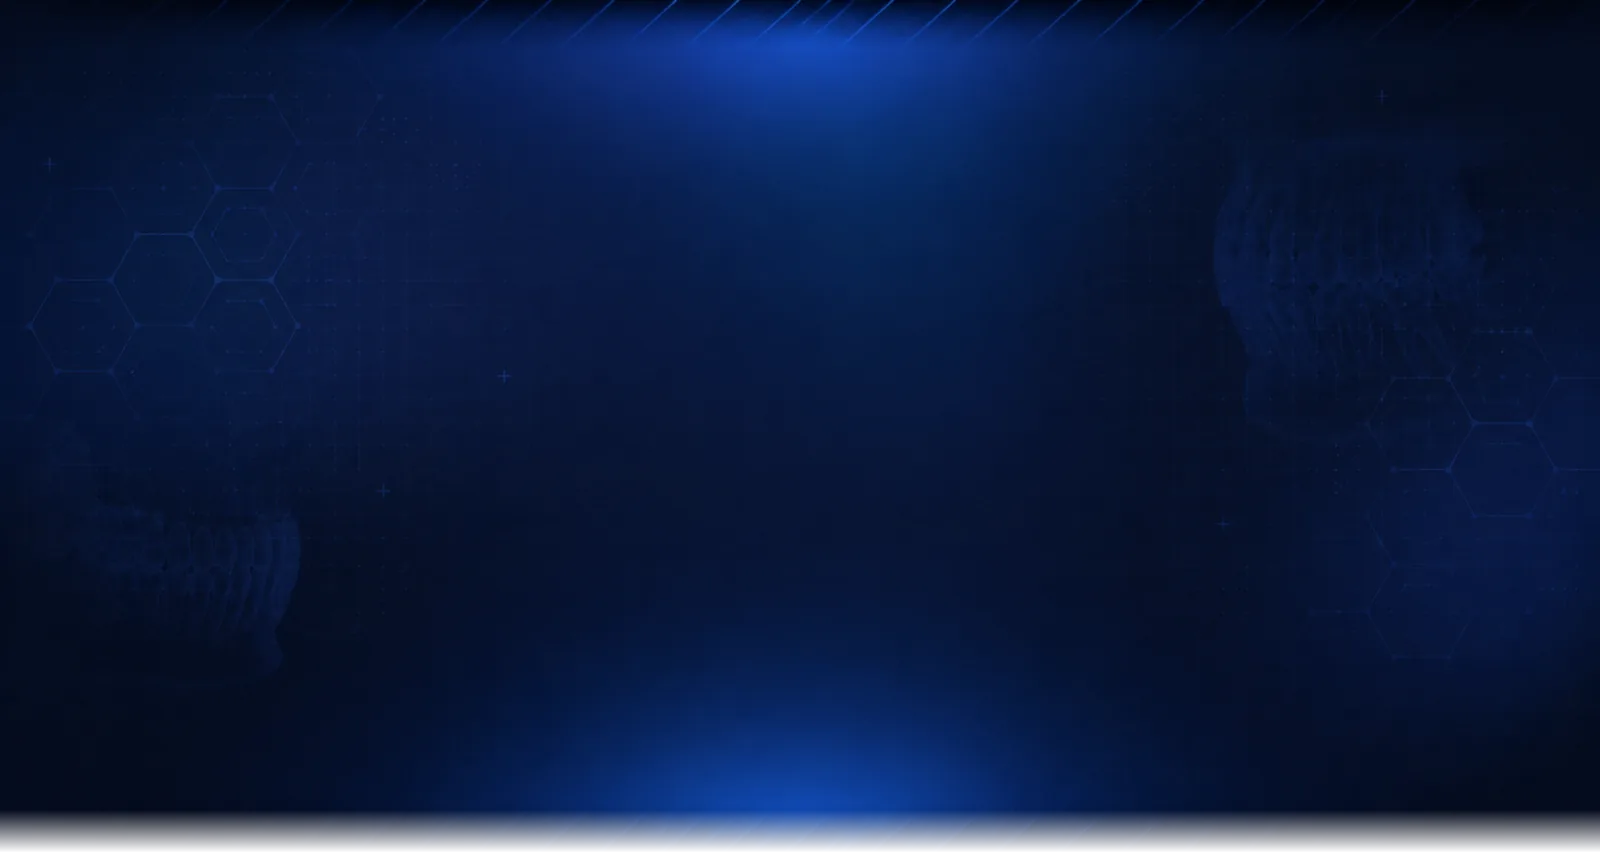
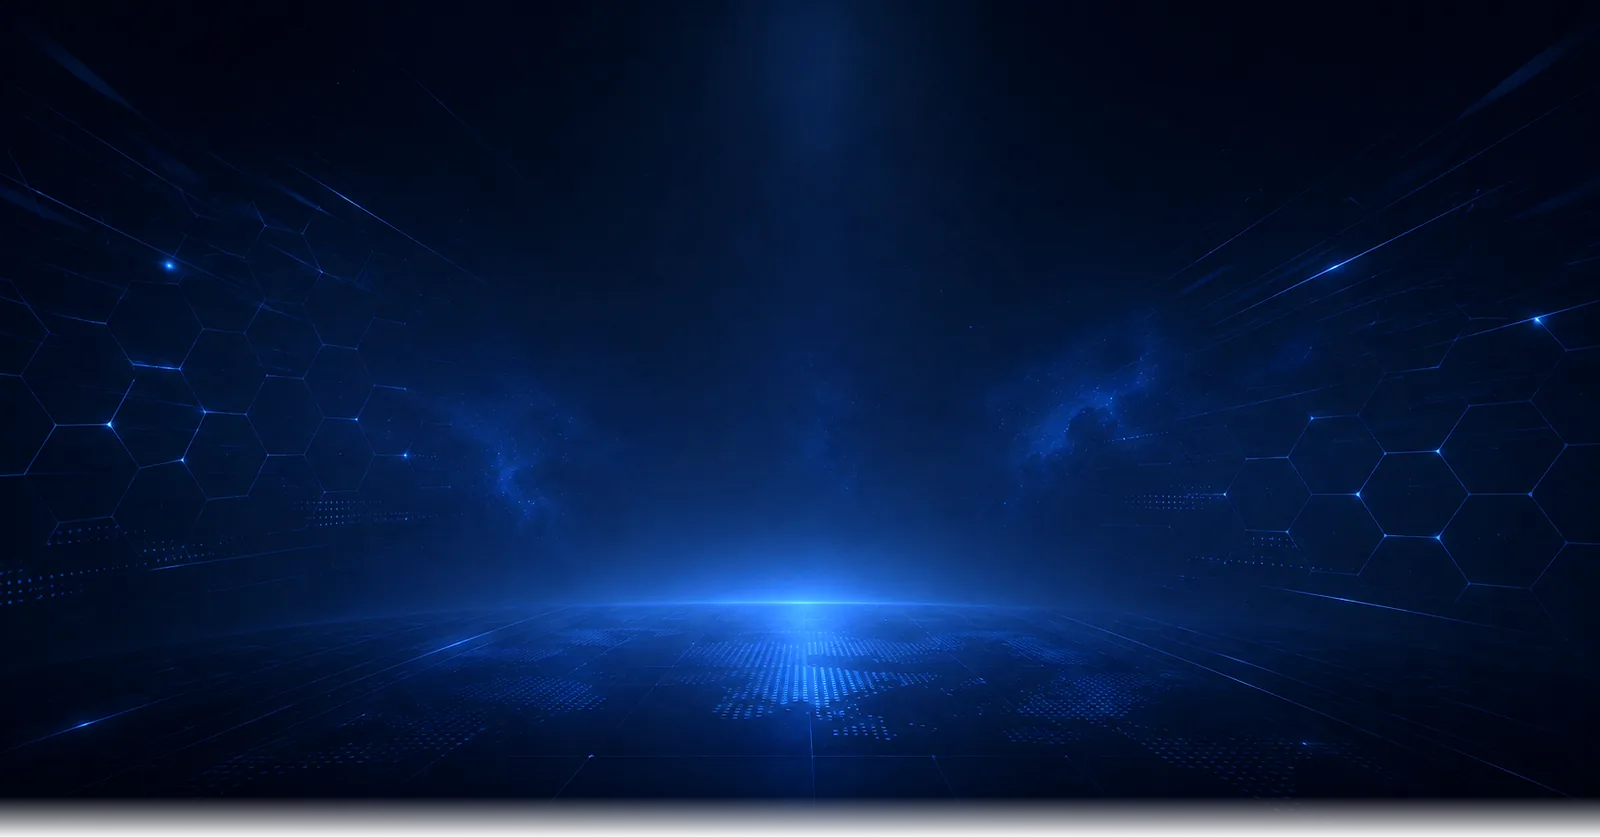
changes

diff --git a/src/i18n/ui.ts b/src/i18n/ui.ts
@@ -315,6 +315,20 @@ const en = {
 		starterSummary: 'Consistent content. Zero effort.',
 		starterBlurb:
 			'Built for practices that want reliable content without adding work to the team.',
+		educationName: 'Patient Education Library',
+		educationSummary: 'Explain it once. Show it forever.',
+		educationBlurb:
+			'The whole library, ready to play chairside, in the consult room and in reception.',
+		educationCta: 'Start free month',
+		educationNote: '30 days free, then billed monthly · Cancel anytime',
+		l1: '300+ patient education videos',
+		l2: 'Covering 40+ treatments',
+		l3: 'New videos added every day',
+		l4: 'Search by treatment or by the question a patient asks',
+		l5: 'Play chairside, in the consult room, or on the waiting room screen',
+		l6: 'Unlimited devices at one location',
+		l7: 'Nothing to film, script or edit',
+		l8: 'Live the day you sign up',
 		starterCta: 'Get Started',
 		starterNote: 'Cancel anytime · Captions, scheduling, and publishing included',
 		premiumName: 'MOLAR Premium',
@@ -1098,6 +1112,20 @@ const de: Dict = {
 		starterSummary: 'Verlässlicher Content. Null Aufwand.',
 		starterBlurb:
 			'Für Praxen, die verlässlich Inhalte wollen, ohne dem Team Arbeit aufzuhalsen.',
+		educationName: 'Patientenaufklärungs-Bibliothek',
+		educationSummary: 'Einmal erklären. Immer zeigen.',
+		educationBlurb:
+			'Die komplette Bibliothek — abspielbar am Behandlungsstuhl, im Beratungszimmer und im Empfang.',
+		educationCta: 'Gratismonat starten',
+		educationNote: '30 Tage gratis, danach monatliche Abrechnung · Jederzeit kündbar',
+		l1: 'Über 300 Patientenaufklärungs-Videos',
+		l2: 'Zu mehr als 40 Behandlungen',
+		l3: 'Täglich kommen neue Videos dazu',
+		l4: 'Suche nach Behandlung oder nach der Frage, die Patienten stellen',
+		l5: 'Abspielbar am Stuhl, im Beratungszimmer oder auf dem Bildschirm im Wartebereich',
+		l6: 'Unbegrenzt viele Geräte an einem Standort',
+		l7: 'Nichts zu drehen, zu texten oder zu schneiden',
+		l8: 'Am Tag der Anmeldung einsatzbereit',
 		starterCta: 'Jetzt starten',
 		starterNote: 'Jederzeit kündbar · Untertitel, Planung und Veröffentlichung inklusive',
 		premiumName: 'MOLAR Premium',

diff --git a/src/data/pricing.ts b/src/data/pricing.ts
@@ -1,4 +1,5 @@
-import { SALES_CALL } from './site';
+import { EDUCATION_CHECKOUT, SALES_CALL } from './site';
+import { EDUCATION_PRICE } from './education';
 
 /**
  * The plans, matching molarai.studio exactly — names, prices, feature copy and
@@ -10,11 +11,11 @@ import { SALES_CALL } from './site';
  * charges the wrong amount look identical from here.
  */
 export interface Plan {
-	id: 'starter' | 'premium' | 'enterprise';
+	id: 'education' | 'starter' | 'premium' | 'enterprise';
 	/** Prefix into `pricing.*`: name, summary, blurb, cta, note. */
-	key: 'starter' | 'premium' | 'enterprise';
-	/** Feature key prefix, numbered from 1 — 's1'…'s8', 'p1'…'p9', 'e1'…'e9'. */
-	featureKey: 's' | 'p' | 'e';
+	key: 'education' | 'starter' | 'premium' | 'enterprise';
+	/** Feature key prefix, numbered from 1 — 'l1'…'l8', 's1'…'s8', 'p1'…'p9', 'e1'…'e9'. */
+	featureKey: 'l' | 's' | 'p' | 'e';
 	featureCount: number;
 	/** Not translated: billed in USD wherever the buyer is. */
 	/**
@@ -42,6 +43,26 @@ export interface Plan {
 export const CURRENCY = 'USD';
 
 export const PLANS: Plan[] = [
+	/*
+		First, and cheapest — the row reads left to right as a ladder, and a $97
+		entry point standing in front of $497 is what makes the ladder legible.
+
+		It is the one plan here that is not social media management. `EDUCATION_PRICE`
+		rather than a literal, because /patient-education/ states the same figure
+		from the same constant and two prices for one product is the failure mode
+		this file exists to prevent.
+	*/
+	{
+		id: 'education',
+		key: 'education',
+		featureKey: 'l',
+		featureCount: 8,
+		price: EDUCATION_PRICE,
+		perMonth: true,
+		amount: 97,
+		cta: { href: EDUCATION_CHECKOUT },
+		featured: false,
+	},
 	{
 		id: 'starter',
 		key: 'starter',

diff --git a/netlify/edge-functions/library-gate.ts b/netlify/edge-functions/library-gate.ts
@@ -64,8 +64,19 @@ export default async (request: Request, context: Context) => {
 	const url = new URL(request.url);
 
 	if (request.method === 'POST') {
-		const form = await request.formData();
-		const supplied = String(form.get('password') ?? '').trim();
+		/*
+			`formData()` throws on a request that carries no form body — a POST with
+			an empty body, a JSON content-type, a crawler poking at the URL. Unguarded
+			it took the whole function down with a 500, which is both a worse answer
+			than "wrong password" and a louder signal that something is here.
+		*/
+		let supplied = '';
+		try {
+			const form = await request.formData();
+			supplied = String(form.get('password') ?? '').trim();
+		} catch {
+			return page(url.pathname, true);
+		}
 
 		if (!timingSafeEqual(supplied, password)) {
 			return page(url.pathname, true);
